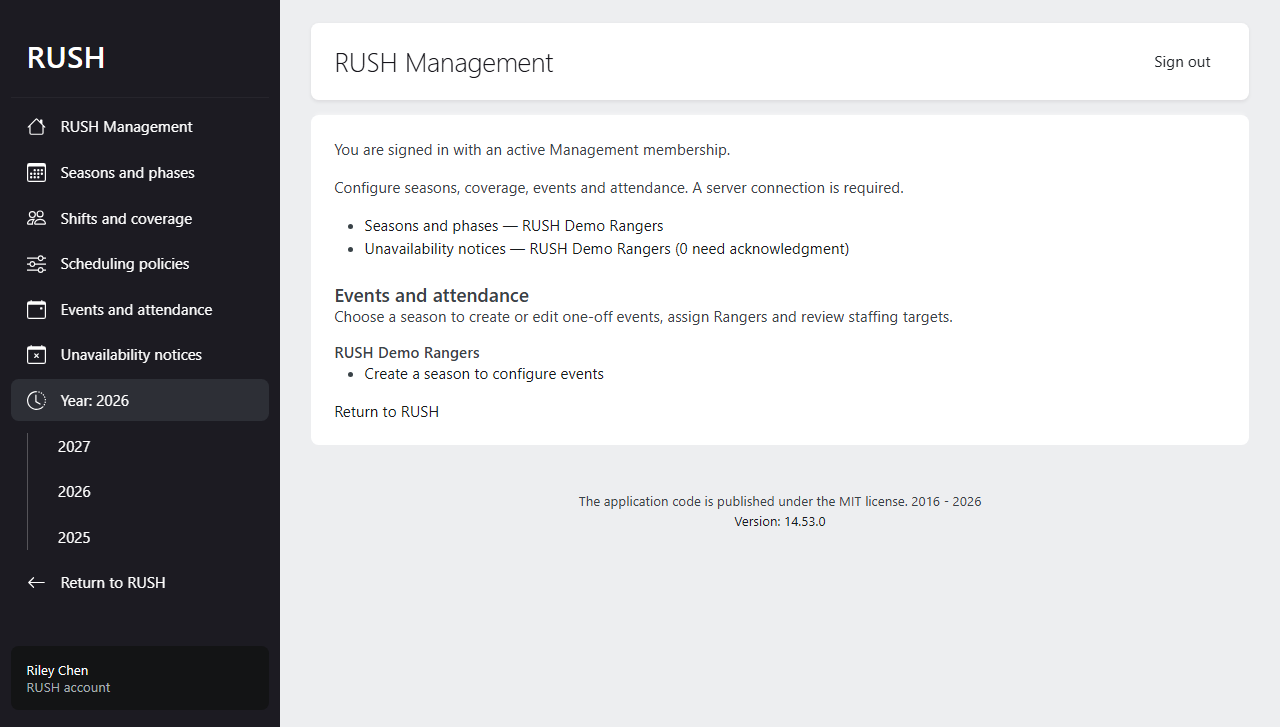
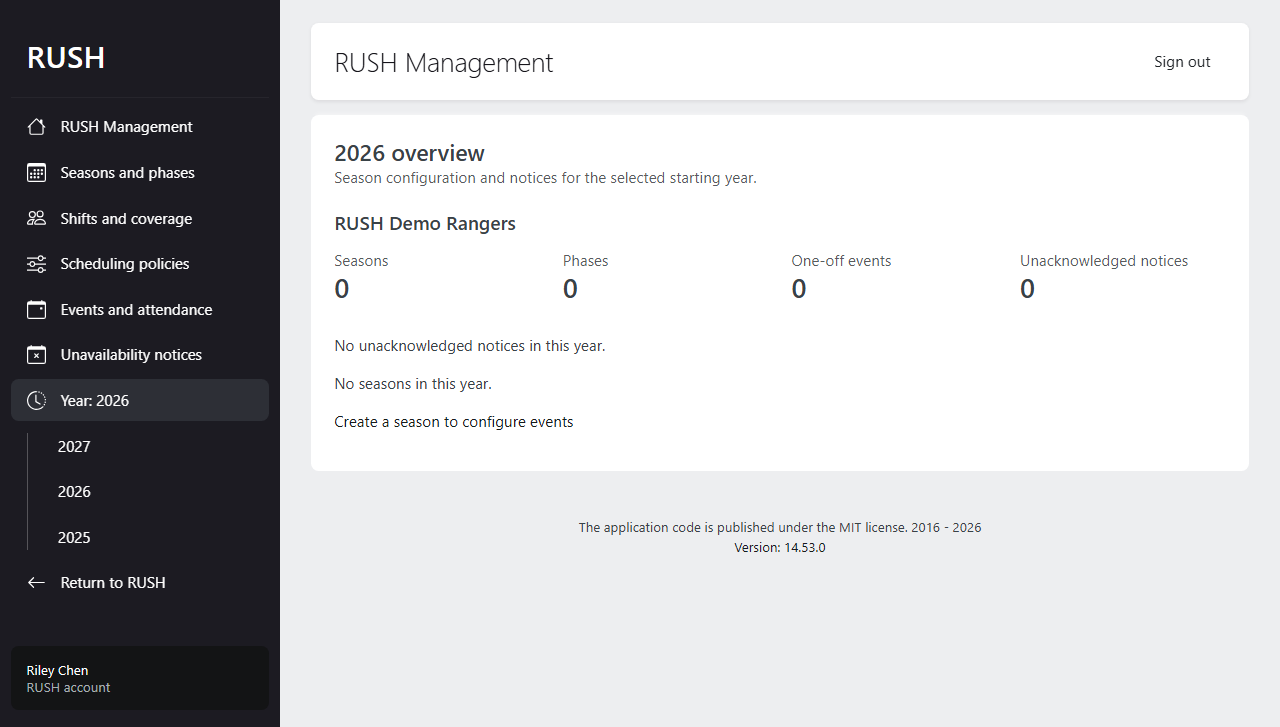
feat(seasons): summarize the selected management year
Replace home navigation lists with scoped organization totals, season dates
and configuration counts, and contextual notice review. Preserve historical
read-only behavior and use sidebar navigation for routine workflows.

Refs: RUSH-020
Requirements: R-01, R-06
Tests: targeted Pest suites (51 passed, 5 PostgreSQL-only skipped); final ManagementYearTest (9 passed, 88 assertions); Playwright overview/seasons/notices (10 passed), final overview (2 passed); Pint, client lint and typecheck passed

diff --git a/client/e2e/integration/seasons.spec.ts b/client/e2e/integration/seasons.spec.ts
@@ -26,7 +26,13 @@ test('Management configures seasons and phases with validation and stale-edit re
   const identity = (await (await context.request.get('/api/v1/session')).json()) as SessionIdentity;
   const organization = identity.memberships[0]!.organization.id;
   await page.goto('/admin/main');
-  await page.getByRole('link', { name: /Seasons and phases —/ }).click();
+  if (!(await page.locator('#headerMenuCollapse').isVisible()))
+    await page.locator('.header-toggler').click();
+  await page.getByRole('link', { name: 'Seasons and phases', exact: true }).click();
+  await page
+    .locator('#menu-seasons-and-phases')
+    .getByRole('link', { name: /Create season/ })
+    .click();
   await page
     .getByLabel('Season name', { exact: false })
     .fill('Calendar proof ' + test.info().project.name);
@@ -112,7 +118,13 @@ test('New phase dates follow calendar boundaries without changing existing input
   page,
 }) => {
   await page.goto('/admin/main');
-  await page.getByRole('link', { name: /Seasons and phases —/ }).click();
+  if (!(await page.locator('#headerMenuCollapse').isVisible()))
+    await page.locator('.header-toggler').click();
+  await page.getByRole('link', { name: 'Seasons and phases', exact: true }).click();
+  await page
+    .locator('#menu-seasons-and-phases')
+    .getByRole('link', { name: /Create season/ })
+    .click();
   const seasonStart = page.getByLabel('Season starts on', { exact: false });
   const seasonEnd = page.getByLabel('Season ends on (inclusive)', { exact: false });
   const starts = page.getByLabel('Phase starts on', { exact: true });
@@ -165,7 +177,13 @@ test('End-date pickers begin after their start and enforce the minimum without o
   page,
 }) => {
   await page.goto('/admin/main');
-  await page.getByRole('link', { name: /Seasons and phases —/ }).click();
+  if (!(await page.locator('#headerMenuCollapse').isVisible()))
+    await page.locator('.header-toggler').click();
+  await page.getByRole('link', { name: 'Seasons and phases', exact: true }).click();
+  await page
+    .locator('#menu-seasons-and-phases')
+    .getByRole('link', { name: /Create season/ })
+    .click();
   const seasonStart = page.getByLabel('Season starts on', { exact: false });
   const seasonEnd = page.getByLabel('Season ends on (inclusive)', { exact: false });
   const starts = page.getByLabel('Phase starts on', { exact: true });

diff --git a/client/e2e/integration/management-years.spec.ts b/client/e2e/integration/management-years.spec.ts
@@ -48,6 +48,15 @@ test('Management browses past starting years read-only and keeps browser tabs in
   });
   await yearMenu.getByRole('link', { name: String(currentYear - 1), exact: true }).click();
   await expect(page.getByText(/Read-only archive/)).toBeVisible();
+  await expect(page.getByRole('heading', { name: `${currentYear - 1} overview` })).toBeVisible();
+  await expect(
+    page.getByRole('rowheader', { name: 'Archive browser proof', exact: true }),
+  ).toBeVisible();
+  await page.reload();
+  await page.screenshot({
+    path: `../docs/evidence/RUSH-020/year-overview-${test.info().project.name}.png`,
+    fullPage: true,
+  });
   await expect(yearMenu).not.toBeVisible();
   if (!(await menu.isVisible())) await page.locator('.header-toggler').click();
   await menu.getByRole('link', { name: 'Seasons and phases', exact: true }).click();

diff --git a/client/e2e/integration/unavailability-management.spec.ts b/client/e2e/integration/unavailability-management.spec.ts
@@ -76,7 +76,7 @@ test('Management acknowledges offline reports and edits on behalf without repair
     });
     expect(assignment.ok()).toBe(true);
     await admin.goto('/admin/main');
-    await admin.getByRole('link', { name: /Unavailability notices —/ }).click();
+    await admin.getByRole('link', { name: 'Review notices' }).click();
     const notice = admin.locator(`[data-record-id="${id}"]`);
     await expect(notice).toContainText('Affected coverage gap needs review');
     await notice.getByRole('button', { name: 'Acknowledge as seen' }).click();

diff --git a/server/resources/views/admin/home.blade.php b/server/resources/views/admin/home.blade.php
@@ -1,29 +1,51 @@
+@php($year = app(\App\Orchid\ManagementYear::class))
 <div class="bg-white rounded p-4">
-    <p>You are signed in with an active Management membership.</p>
-    <p>Configure seasons, coverage, events and attendance. A server connection is required.</p>
-    <ul>
-        @foreach($organizations as $organization)
-            <li><a href="{{ app(\App\Orchid\ManagementYear::class)->route('platform.seasons', [$organization->id, 'new']) }}">Seasons and phases — {{ $organization->name }}</a></li>
-            <li><a href="{{ app(\App\Orchid\ManagementYear::class)->route('platform.unavailability', [$organization->id, 'new']) }}">Unavailability notices — {{ $organization->name }} ({{ $organization->unavailability_notice_count }} need acknowledgment)</a></li>
-        @endforeach
-    </ul>
-    <section id="events" aria-labelledby="events-heading" class="mt-4">
-        <h2 id="events-heading" class="h5">Events and attendance</h2>
-        <p>Choose a season to create or edit one-off events, assign Rangers and review staffing targets.</p>
-        @foreach($organizations as $organization)
-            <h3 class="h6">{{ $organization->name }}</h3>
-            <ul>
-                @forelse($organization->seasons as $season)
-                    <li><a href="{{ app(\App\Orchid\ManagementYear::class)->route('platform.events', [$organization->id, $season->id, 'new']) }}">Events and attendance — {{ $season->name }}</a></li>
-                @empty
-                    @if(app(\App\Orchid\ManagementYear::class)->context()['readOnly'])
-                        <li>No seasons in this year.</li>
-                    @else
-                        <li><a href="{{ app(\App\Orchid\ManagementYear::class)->route('platform.seasons', [$organization->id, 'new']) }}">Create a season to configure events</a></li>
-                    @endif
-                @endforelse
-            </ul>
-        @endforeach
-    </section>
-    <a href="/">Return to RUSH</a>
+    <h2 class="h4">{{ $year->context()['year'] }} overview</h2>
+    <p class="text-muted">Season configuration and notices for the selected starting year.</p>
+    @forelse($organizations as $organization)
+        <section class="mt-4" aria-label="{{ $organization->name }} overview">
+            <h3 class="h5">{{ $organization->name }}</h3>
+            <dl class="row my-3">
+                @foreach(['Seasons' => $organization->seasons->count(), 'Phases' => $organization->seasons->sum('phases_count'), 'One-off events' => $organization->seasons->sum('events_count'), 'Unacknowledged notices' => $organization->unavailability_notice_count] as $label => $count)
+                    <div class="col-6 col-lg-3 mb-3">
+                        <dt class="text-muted fw-normal">{{ $label }}</dt>
+                        <dd class="h3 mb-0">{{ $count }}</dd>
+                    </div>
+                @endforeach
+            </dl>
+            @if($organization->unavailability_notice_count)
+                <p class="alert alert-info">
+                    {{ $organization->unavailability_notice_count }} {{ $year->context()['readOnly'] ? 'historical notices remain unacknowledged.' : 'notices need acknowledgment.' }}
+                    <a href="{{ $year->route('platform.unavailability', [$organization->id, 'new']) }}">Review notices</a>
+                </p>
+            @else
+                <p>No unacknowledged notices in this year.</p>
+            @endif
+            @if($organization->seasons->isNotEmpty())
+                <div class="table-responsive">
+                    <table class="table" style="min-width: 36rem">
+                        <caption>Seasons grouped by starting year. Dates use each season's time zone.</caption>
+                        <thead><tr><th scope="col">Season</th><th scope="col">Dates</th><th scope="col">Phases</th><th scope="col">Events</th></tr></thead>
+                        <tbody>
+                            @foreach($organization->seasons as $season)
+                                <tr>
+                                    <th scope="row"><a href="{{ route('platform.seasons', [$organization->id, $season->id]) }}">{{ $season->name }}</a></th>
+                                    <td>{{ \Carbon\CarbonImmutable::parse($season->starts_on)->format('D, M j, Y') }} – {{ \Carbon\CarbonImmutable::parse($season->ends_on)->format('D, M j, Y') }}<br><small>{{ $season->timezone }}</small></td>
+                                    <td>{{ $season->phases_count }}</td>
+                                    <td>{{ $season->events_count }}</td>
+                                </tr>
+                            @endforeach
+                        </tbody>
+                    </table>
+                </div>
+            @else
+                <p>No seasons in this year.</p>
+                @unless($year->context()['readOnly'])
+                    <p><a href="{{ $year->route('platform.seasons', [$organization->id, 'new']) }}">Create a season to configure events</a></p>
+                @endunless
+            @endif
+        </section>
+    @empty
+        <p>No organizations available.</p>
+    @endforelse
 </div>

diff --git a/server/tests/Feature/ManageUnavailabilityTest.php b/server/tests/Feature/ManageUnavailabilityTest.php
@@ -28,7 +28,7 @@ it('notifies Management and syncs revision-specific acknowledgment without repai
     $this->actingAs($this->manager->user)->putJson($this->url, $this->input)->assertSuccessful()
         ->assertJsonPath('data.acknowledged_at', null)->assertJsonPath('data.assignment_conflicts.0.affected_coverage.starts_at', '2026-11-01T10:00:00Z')
         ->assertJsonPath('data.assignment_conflicts.0.affected_coverage.ends_at', '2026-11-01T12:00:00Z');
-    $this->get('/admin/main')->assertOk()->assertSee('1 need acknowledgment');
+    $this->get('/admin/main')->assertOk()->assertSee('1 notices need acknowledgment.');
     $this->getJson($this->base.'/unavailability')->assertOk()->assertJsonCount(1, 'data');
     $page = $this->actingAs($this->ranger->user)->postJson($this->base.'/sync/pull')->assertOk()->json();
     $this->actingAs($this->manager->user)->postJson($this->url.'/acknowledge', ['expected_revision' => 1])->assertOk();
@@ -36,7 +36,7 @@ it('notifies Management and syncs revision-specific acknowledgment without repai
     $at = DB::table('unavailability_acknowledgments')->value('acknowledged_at');
     $this->postJson($this->url.'/acknowledge', ['expected_revision' => 1])->assertOk();
     expect(DB::table('unavailability_acknowledgments')->value('acknowledged_at'))->toBe($at);
-    $this->get('/admin/main')->assertSee('0 need acknowledgment');
+    $this->get('/admin/main')->assertSee('No unacknowledged notices in this year.');
     $this->actingAs($this->ranger->user, 'sanctum')->postJson($this->base.'/sync/pull', ['checkpoint' => $page['checkpoint']])
         ->assertOk()->assertJsonPath('changes.0.value.revision', 1)->assertJsonCount(1, 'changes.0.value.assignment_conflicts')
         ->assertJsonPath('changes.0.value.acknowledged_at', fn ($value) => is_string($value));

diff --git a/server/tests/Feature/ManagementYearTest.php b/server/tests/Feature/ManagementYearTest.php
@@ -49,6 +49,19 @@ it('scopes menus and lists by starting year and keeps selection in links rather 
     $this->getJson('/admin/main?year[]=2025')->assertUnprocessable();
 });
 
+it('summarizes only the selected year in the management overview', function () {
+    $response = $this->get('/admin/main?year=2025')->assertOk()->assertSee('2025 overview')
+        ->assertSee('historical notices remain unacknowledged.');
+    foreach (['Seasons', 'Phases', 'One-off events', 'Unacknowledged notices'] as $label) {
+        expect($response->getContent())->toMatch('/'.preg_quote($label, '/').'<\/dt>\s*<dd[^>]*>1<\/dd>/');
+    }
+    $response = $this->get('/admin/main?year=2026')->assertOk()->assertSee('2026 overview')
+        ->assertSee('No unacknowledged notices in this year.');
+    foreach (['Phases', 'One-off events', 'Unacknowledged notices'] as $label) {
+        expect($response->getContent())->toMatch('/'.preg_quote($label, '/').'<\/dt>\s*<dd[^>]*>0<\/dd>/');
+    }
+});
+
 it('keeps archived event and phase screens viewable without mutation controls', function () {
     $phase = $this->archive->phases->first()->id;
     foreach (['coverage' => 'Save phase coverage', 'policies' => 'Save scheduling policies'] as $path => $button) {

diff --git a/server/app/Orchid/Screens/PlatformScreen.php b/server/app/Orchid/Screens/PlatformScreen.php
@@ -22,7 +22,7 @@ class PlatformScreen extends ManagementScreen
 
         return ['organizations' => Organization::query()->whereHas('memberships', fn ($query) => $query
             ->where('user_id', auth()->id())->where('is_active', true)->where('role', 'management'))
-            ->with(['seasons' => fn ($query) => $year->scopeSeasons($query)->orderByDesc('starts_on')->orderBy('name')])->orderBy('name')->get()
+            ->with(['seasons' => fn ($query) => $year->scopeSeasons($query)->withCount(['phases', 'events'])->orderBy('starts_on')->orderBy('name')])->orderBy('name')->get()
             ->each(function ($organization) use ($year) {
                 $start = CarbonImmutable::create($year->context()['year'], 1, 1, 0, 0, 0, $organization->timezone);
                 $organization->unavailability_notice_count = Unavailability::query()->where('organization_id', $organization->id)

diff --git a/server/app/Models/Season.php b/server/app/Models/Season.php
@@ -22,4 +22,9 @@ class Season extends Model
     {
         return $this->hasMany(Phase::class)->orderBy('starts_on')->orderBy('id');
     }
+
+    public function events(): HasMany
+    {
+        return $this->hasMany(Event::class);
+    }
 }

diff --git a/docs/evidence/RUSH-020/README.md b/docs/evidence/RUSH-020/README.md
@@ -30,8 +30,7 @@ years live in URLs, not a shared session preference, so tabs remain independent.
 Management has separate expandable sidebar sections for **Seasons and phases**,
 **Shifts and coverage**, **Scheduling policies**, **Events and attendance**, and
 **Unavailability notices**. The menu links directly to authorized organization,
-season and phase screens. Missing seasons/phases offer setup links. The home
-screen retains its shortcuts.
+season and phase screens. Missing seasons/phases offer setup links. The home screen summarizes the selected year.
 
 UUID event/attendance identities, same-tenant foreign keys, revision/season
 checks, Management policies, transactional before/after audit, and retained form
@@ -161,3 +160,24 @@ history, and a composite season key. Rollback removes this task's event and audi
 data; back it up before rollback. There are no Client database/sync migrations,
 new dependencies, or scheduled jobs. Human review, required CI, and merge remain
 necessary before marking RUSH-020 done.
+
+## Selected-year overview follow-up
+
+The Management home summarizes each authorized organization's selected starting
+year with season, phase, one-off event and unacknowledged-notice totals. A season
+table shows local date ranges and time zones with links to individual seasons.
+Notices needing acknowledgment have a review action; archived notices are labeled
+historical. Empty years explain the absence of seasons and offer setup only when
+editable. Routine navigation stays in the sidebar. No schema or sync changes.
+
+Verification: targeted SQLite event/year/notice tests passed 51 tests (352
+assertions), with 5 PostgreSQL-only skips. After adding overview totals coverage,
+the year suite passed 9 tests (88 assertions). Pint passed.
+
+The overview, seasons and notice Playwright specs passed all 10 desktop/mobile
+tests. Client lint and TypeScript passed. Overview screenshots:
+[desktop](year-overview-desktop.png), [mobile](year-overview-mobile.png).
+
+Final overview screenshot run: 2 desktop/mobile tests passed after ensuring
+navigation completed and keeping the mobile table horizontally scrollable.
+Screenshots were visually reviewed.

diff --git a/docs/decisions/0020-one-off-events.md b/docs/decisions/0020-one-off-events.md
@@ -78,3 +78,9 @@ in the organization's zone. Management cannot edit or acknowledge past-year
 notices. Ranger availability sync behavior is unchanged. This is a Management
 configuration archive, not a new hours-finalization or publication policy.
 No database migration, Client persistent store or sync protocol is required.
+
+The Management overview presents selected-year counts of seasons, phases, events
+and unacknowledged notices per authorized organization, with season dates and
+time zones. Counts describe saved configuration, not published coverage or paid
+hours. Archived unacknowledged notices are informational. Navigation remains in
+the sidebar; overview links are contextual season, notice-review or setup actions.
